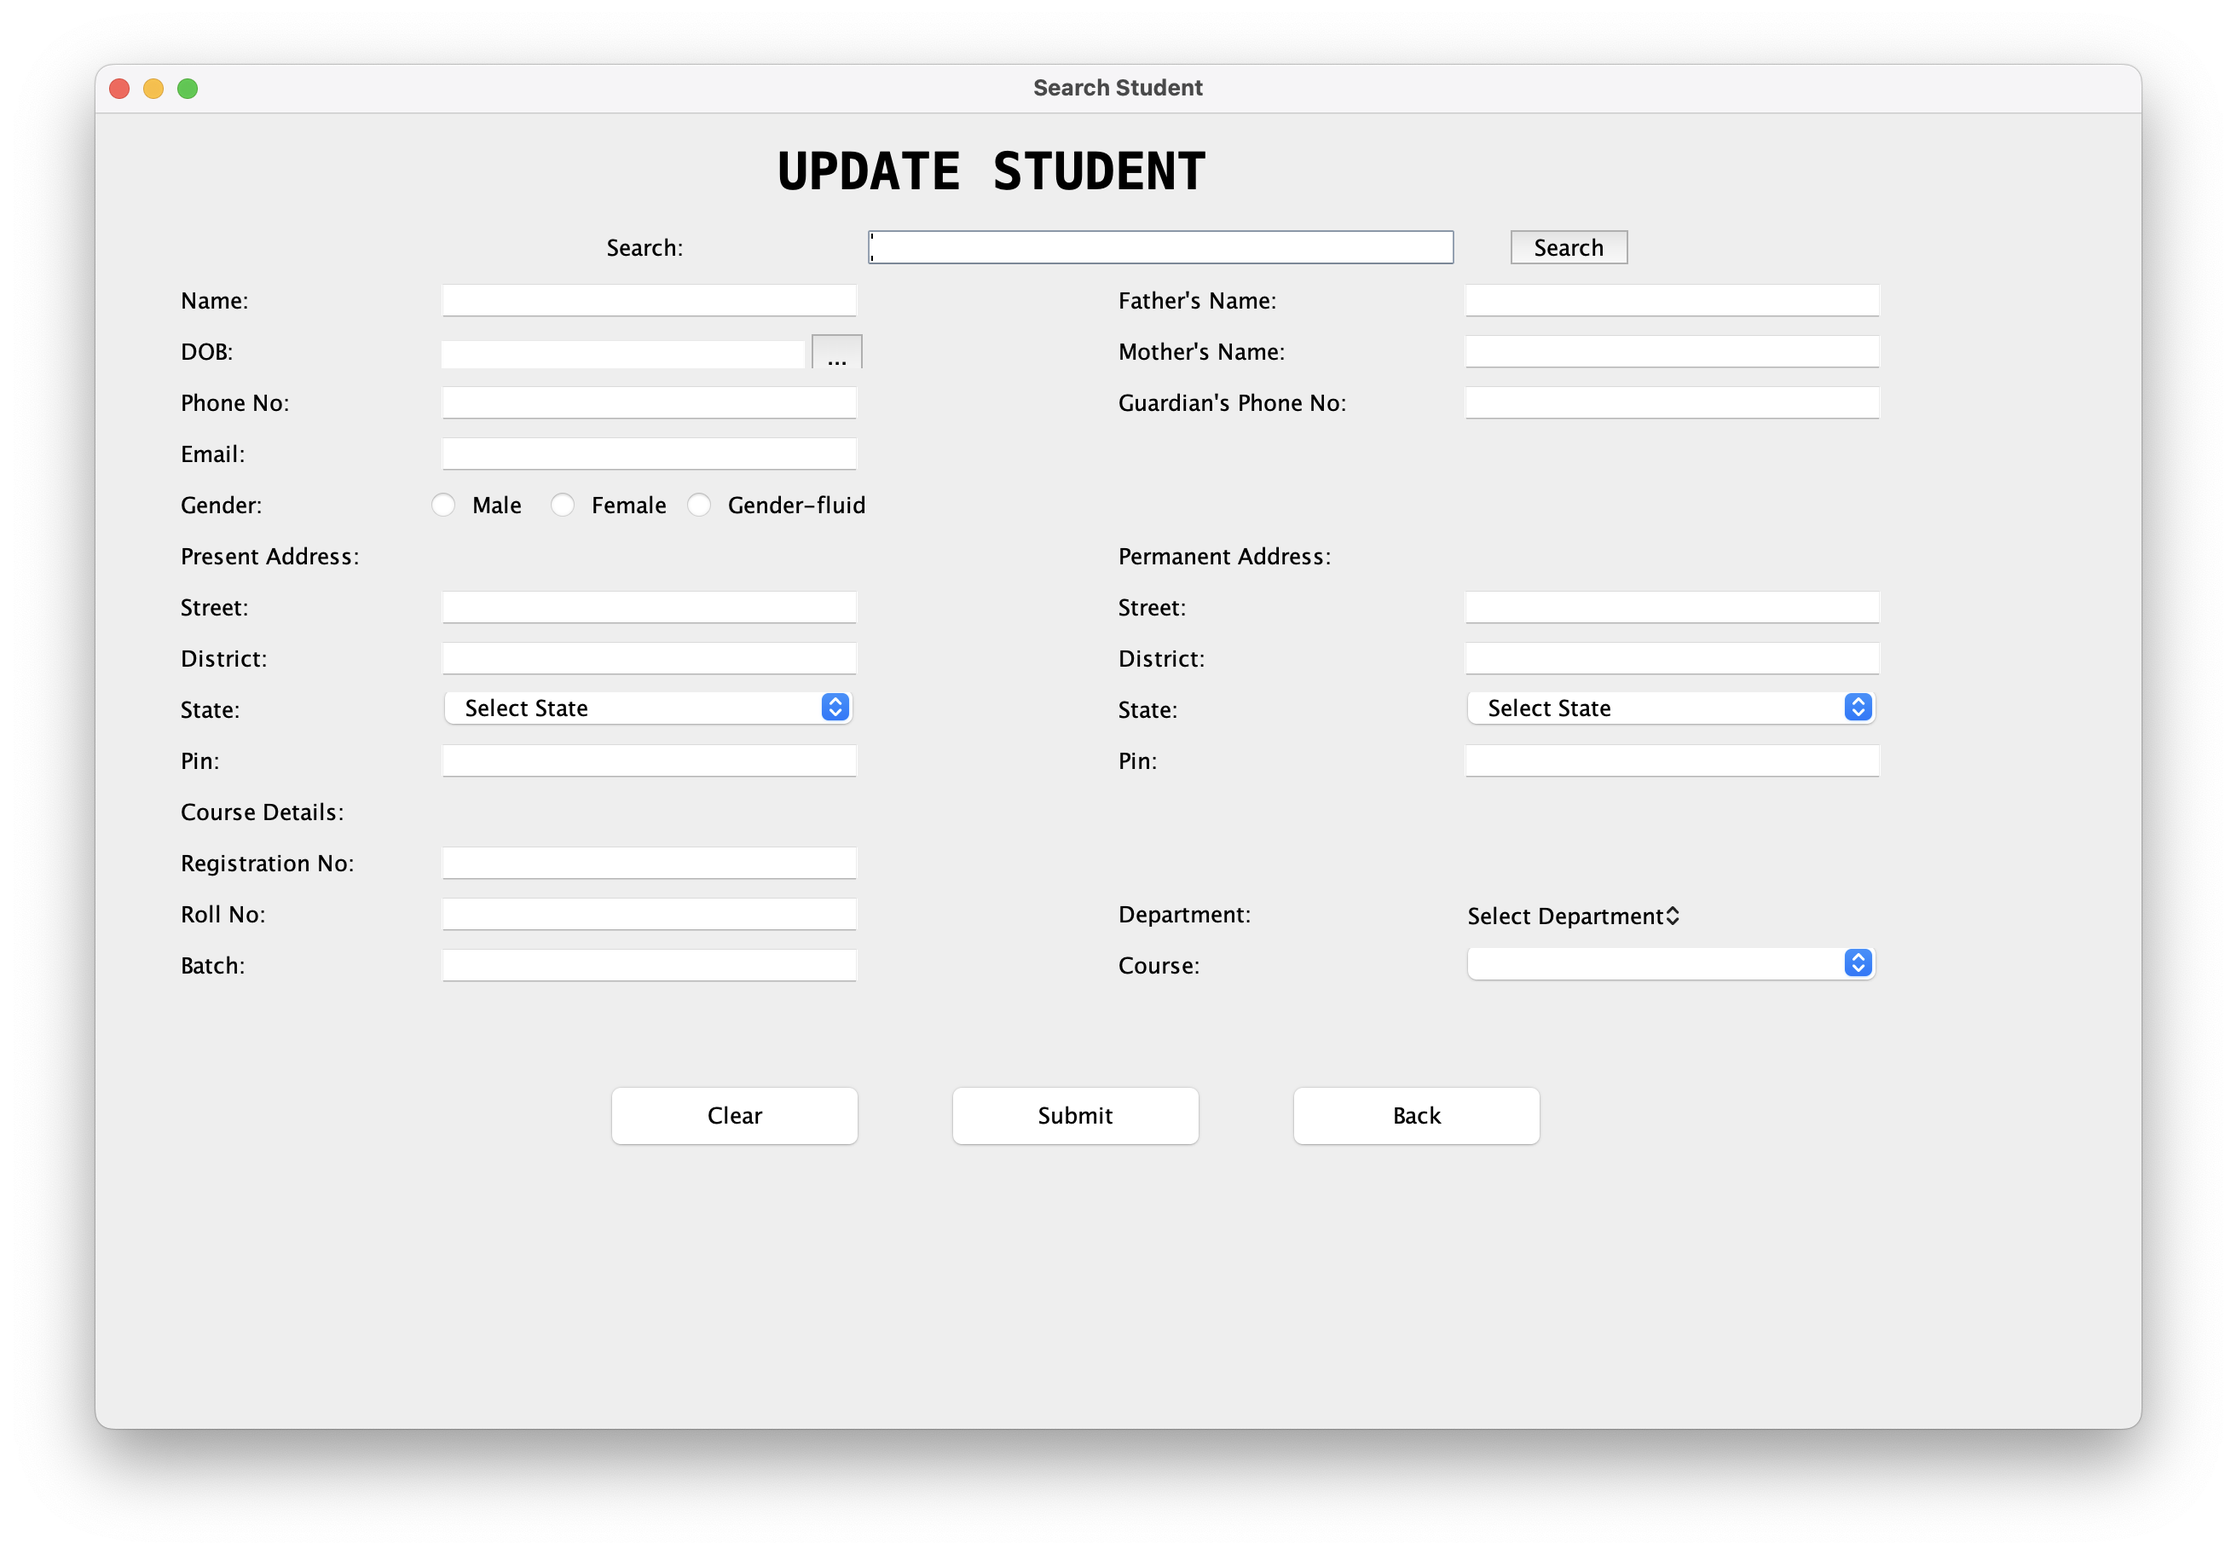
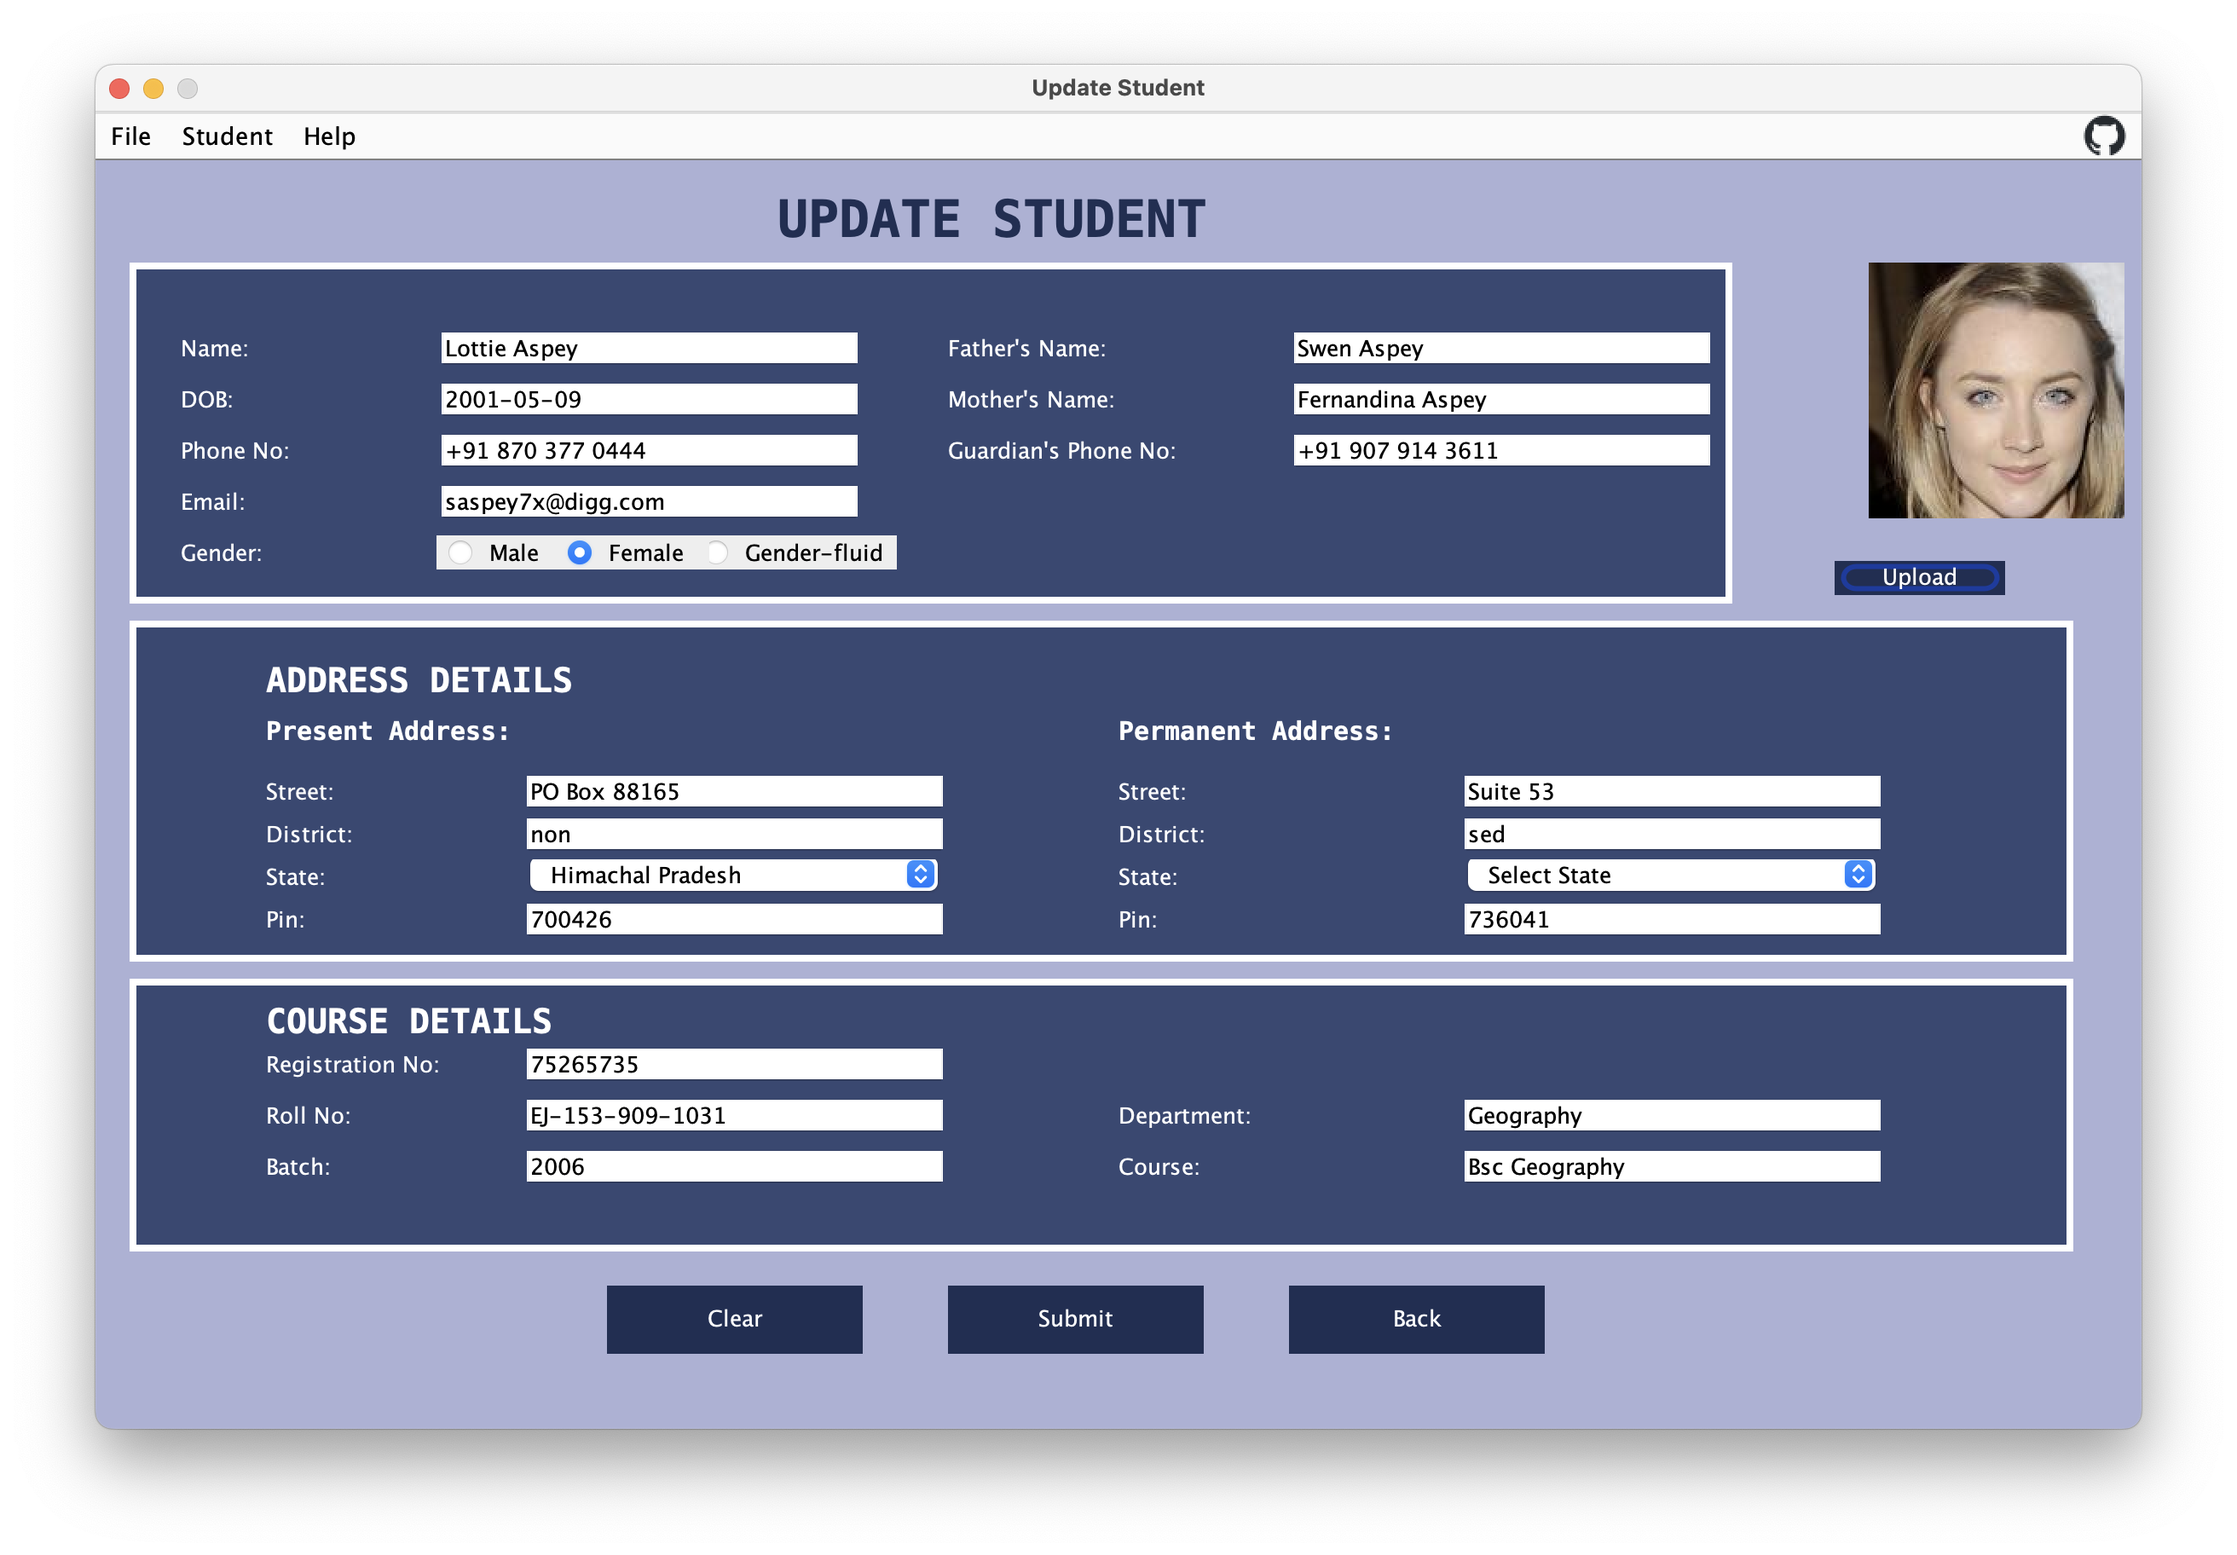
updated ss

diff --git a/src/com/tetradlazydragons/GetStarted.java b/src/com/tetradlazydragons/GetStarted.java
@@ -43,13 +43,13 @@ public class GetStarted extends JFrame {
         topic1Button.setOpaque(true);
         topic1Button.addActionListener(e -> {
             String howToContent = "The app section of UniManager is a feature that allows authorized users to edit, view, and delete student details within the system. Additionally, it provides an option to connect to a database for efficient data management."
-                    + " UniManager empowers administrators and authorized users to effectively manage student details, providing them with the necessary tools for data editing, viewing, and deletion while ensuring a secure and streamlined experience through the integration with a database.\n\n"
+                    + "\n UniManager empowers administrators and authorized users to effectively manage student details, providing them with the necessary tools for data editing, viewing, and deletion while ensuring a secure and streamlined experience through the integration with a database.\n\n"
                     + "\n Here's an overview of the functionalities in the app section:";
             howToTextArea.setText(howToContent);
         });
 
         JButton topic2Button = new JButton("Database");
-        topic2gButton.setForeground(Color.WHITE);
+        topic2Button.setForeground(Color.WHITE);
         topic2Button.setBackground(Color.decode(bgcolor2));
         topic2Button.setBorderPainted(false);
         topic2Button.setOpaque(true);
@@ -57,7 +57,7 @@ public class GetStarted extends JFrame {
             String howToContent = "UniManager offers the capability to connect to a database, which serves as a centralized storage for student data. By connecting to a database, the application can efficiently manage large amounts of information, provide data security, and enable reliable data retrieval and storage.\n"
                     +
 
-                    " Connecting to a database allows for seamless integration with other systems and provides a robust foundation for data management within UniManager. It facilitates data consistency, scalability, and ease of use.\n\n"
+                    "\n Connecting to a database allows for seamless integration with other systems and provides a robust foundation for data management within UniManager. It facilitates data consistency, scalability, and ease of use.\n\n"
                     +
                     " Step1 - Click on the File option on the menu\n" +
                     " Step2 - Select the Connect db button\n" +
@@ -72,8 +72,8 @@ public class GetStarted extends JFrame {
         topic3Button.setOpaque(true);
         topic3Button.addActionListener(e -> {
             String howToContent = "How to add a student\n" +
-                    "Step1-Connect the database\n" +
-                    "Step2-Click on search or Add student from Home\n" +
+                    "Step1 - Connect the database\n" +
+                    "Step2 - Click on search or Add student from Home\n" +
                     "Step3 - Fill in the form and click submit";
             howToTextArea.setText(howToContent);
         });
@@ -126,7 +126,7 @@ public class GetStarted extends JFrame {
         topic7Button.setBorderPainted(false);
         topic7Button.setOpaque(true);
         topic7Button.addActionListener(e -> {
-            String howToContent = "How to use Topic :\n\nDev 1: ...\nDev 2: ...\nDev 3: ...\nDev 4: ...";
+            String howToContent = "How to use Topic :\n\nDev 1: Debasish Dutta\nDev 2: Neeharika Sonowal\nDev 3: Rhituraj Deori\nDev 4: Jyotishman Bhagawati";
             howToTextArea.setText(howToContent);
         });
 

diff --git a/src/com/tetradlazydragons/UpdateForm.java b/src/com/tetradlazydragons/UpdateForm.java
@@ -37,7 +37,7 @@ public class UpdateForm implements ActionListener {
         static JLabel piclabel, piclabel2;
         static JTextField sname, sdob, sphone, semail, fname, mname, gphone, spresst, spresdist, sprespin, spermst,
                         spermdist, date,
-                        spermpin, reg, roll,
+                        spermpin, reg, roll, deptT,
                         batch, course;
         static JRadioButton maleradio, femaleradio, genderfradio;
         static JComboBox<String> presstatecombo, permstatecombo;
@@ -342,9 +342,11 @@ public class UpdateForm implements ActionListener {
                 deptComboBox.setBounds(800, 550, 250, 20);
                 deptComboBox.setOpaque(true);
                 deptComboBox.addActionListener(this);
-
+                deptT = new JTextField();
+                deptT.setBounds(800, 550, 250, 20);
+                f.add(deptT);
                 deptComboBox.putClientProperty("JComboBox.isTableCellEditor", Boolean.TRUE);
-                f.add(deptComboBox);
+                // f.add(deptComboBox);
 
                 courselabel = new JLabel("Course:");
                 courselabel.setForeground(Color.WHITE);
@@ -477,6 +479,7 @@ public class UpdateForm implements ActionListener {
                 clearbtn.setBackground(Color.decode(bgcolor));
                 clearbtn.setBorderPainted(false);
                 clearbtn.setOpaque(true);
+                clearbtn.addActionListener(this);
                 f.add(clearbtn);
 
                 backbtn = new JButton("Back");
@@ -499,6 +502,7 @@ public class UpdateForm implements ActionListener {
 
                 f.setSize(1200, 800);
                 f.setLayout(null);
+                f.setResizable(false);
                 f.setVisible(true);
 
         }
@@ -574,13 +578,14 @@ public class UpdateForm implements ActionListener {
                         // maleradio.setEnabled(false);
                         // femaleradio.setEnabled(false);
                         // genderfradio.setEnabled(false);
+                        course.setText("");
+                        deptT.setText("");
                         bg.clearSelection();
                         presstatecombo.setSelectedIndex(0);
                         permstatecombo.setSelectedIndex(0);
                         deptComboBox.setSelectedIndex(0);
                         courseComboBox.setModel(new DefaultComboBoxModel());
                         courseComboBox.setSelectedIndex(0);
-                        course.setText("");
                 }
 
                 if (e.getActionCommand().equals("Submit")) {

diff --git a/src/com/tetradlazydragons/RegForm.java b/src/com/tetradlazydragons/RegForm.java
@@ -303,7 +303,7 @@ public class RegForm implements ActionListener {
                 rolllabel.setForeground(Color.WHITE);
                 rolllabel.setBounds(100, 560, 150, 20);
                 roll = new JTextField();
-                roll.setBounds(250, 550, 260, 20);
+                roll.setBounds(250, 560, 260, 20);
                 f.add(rolllabel);
                 f.add(roll);
 
@@ -533,8 +533,8 @@ public class RegForm implements ActionListener {
                         } else {
                                 courseComboBox.setModel(new DefaultComboBoxModel((String[]) o));
                         }
-                        System.out.println("course ->" + courseComboBox.getSelectedIndex() + " "
-                                        + courseComboBox.getSelectedObjects().toString() + " ");
+                        // System.out.println("course ->" + courseComboBox.getSelectedIndex() + " "
+                        // + courseComboBox.getSelectedObjects().toString() + " ");
                 }
 
                 if (e.getSource() == uploadPic) {
@@ -557,6 +557,7 @@ public class RegForm implements ActionListener {
                 }
 
                 if (e.getSource() == clearbtn) {
+                        piclabel.setIcon(null);
                         sname.setText("");
                         sphone.setText("");
                         semail.setText("");

diff --git a/src/com/tetradlazydragons/License.java b/src/com/tetradlazydragons/License.java
@@ -7,7 +7,7 @@ public class License extends JFrame {
     public License() {
         // setDefaultCloseOperation(JFrame.EXIT_ON_CLOSE);
         setTitle("MIT License");
-
+        String bgcolor = "#374873", bgcolor2 = "#1F2E54", bgcolor3 = "#ACB1D6";
         Dimension screenSize = Toolkit.getDefaultToolkit().getScreenSize();
         int Width = 800;
         int Height = 600;
@@ -39,12 +39,14 @@ public class License extends JFrame {
                 "SOFTWARE.");
 
         textArea.setEditable(false);
-        textArea.setFont(new Font(Font.MONOSPACED, Font.PLAIN, 20));
+        textArea.setFont(new Font("Courier", Font.PLAIN, 20));
         textArea.setAlignmentX(Component.CENTER_ALIGNMENT);
         textArea.setAlignmentY(Component.CENTER_ALIGNMENT);
 
         JScrollPane scrollPane = new JScrollPane(textArea);
         scrollPane.setBounds(textAreaX, textAreaY, textAreaWidth, textAreaHeight);
+
+        textArea.setForeground(Color.decode(bgcolor));
 
         getContentPane().add(scrollPane);
         setLocationRelativeTo(null);

diff --git a/src/com/tetradlazydragons/Home.java b/src/com/tetradlazydragons/Home.java
@@ -34,11 +34,7 @@ public class Home {
     Home() {
         JFrame f = new JFrame("Uni Manager");
         f.setDefaultCloseOperation(JFrame.EXIT_ON_CLOSE);
-        try {
-            f.setContentPane(new JLabel(new ImageIcon(ImageIO.read(new File("assets/icons/unimanagerhome.jpg")))));
-        } catch (IOException e) {
-            e.printStackTrace();
-        }
+        f.setContentPane(new JLabel(new ImageIcon("assets/icons/unimanagerhome.jpg")));
         MenuBar menu = new MenuBar();
         f.setJMenuBar(menu.createMenuBar());
 
@@ -128,6 +124,8 @@ public class Home {
         f.setSize(1200, 800);
         f.setLayout(null);
         f.setVisible(true);
+        ImageIcon myAppImage = new ImageIcon("assets/icons/dragon.png");
+        // f.setIconImage(myAppImage.getImage());
         f.setResizable(false);
     }
 

diff --git a/src/com/tetradlazydragons/DBHandler.java b/src/com/tetradlazydragons/DBHandler.java
@@ -43,7 +43,7 @@ public class DBHandler {
     static {
         login = "root";
         databaseUrl = "jdbc:mysql://localhost:3306/student_management_system?useSSL=false";
-        password = "8145";
+        password = "111222344";
         studentsTable = "student_data";
     }
 
@@ -169,10 +169,7 @@ public class DBHandler {
             } else if (RegForm.femaleradio.isSelected()) {
                 sgender = "Female";
             } else if (RegForm.genderfradio.isSelected()) {
-                             
-                sgender = "Gender-Fluid";
-            } else {
-                sgender = "";
+                sgender = "Genderf";
             }
             String presAdd = RegForm.spresst.getText() + ", " + RegForm.spresdist.getText()
                     + ", " + RegForm.presstatecombo.getItemAt(

diff --git a/src/com/tetradlazydragons/ViewCard.java b/src/com/tetradlazydragons/ViewCard.java
@@ -369,7 +369,7 @@ public class ViewCard implements ActionListener {
             UpdateForm.reg.setText(studentData[8].toString());
             UpdateForm.batch.setText(studentData[14].toString());
 
-            UpdateForm.deptComboBox.setSelectedItem(studentData[15].toString());
+            UpdateForm.deptT.setText(studentData[15].toString());
             UpdateForm.course.setText(studentData[13].toString() + " " + studentData[15].toString());
             UpdateForm.date.setText(studentData[3].toString());
             UpdateForm.roll.setText(studentData[1].toString());

diff --git a/src/com/tetradlazydragons/SearchForm.java b/src/com/tetradlazydragons/SearchForm.java
@@ -65,6 +65,7 @@ public class SearchForm implements ActionListener {
 
         tableModel = new DefaultTableModel();
         viewTable = new JTable(tableModel);
+
         tableModel.addColumn("Roll No");
         tableModel.addColumn("Name");
         tableModel.addColumn("Date Of Birth");

diff --git a/README.md b/README.md
@@ -2,13 +2,9 @@
 
 This is a simple student management system done using Java and Swing package.
 
-## Screenshots
+## Features
 
-![home](assets/ss/homepage.png)
-![add student form](assets/ss/new_std.png)
-![connect db form](assets/ss/connect_db.png)
-![search form](assets/ss/search_std.png)
-![update form](assets/ss/update_std.png)
+## Technologies and Dependencies
 
 ## Build
 
@@ -18,3 +14,34 @@ To build the app from source, use the following commands:
     ant
     java  -jar dist/UniManager.jar  
 ```
+
+## Installation
+
+## Screenshots
+
+![home](assets/ss/homepage.png)
+![add student form](assets/ss/new_std.png)
+![connect db form](assets/ss/connect_db.png)
+![search form](assets/ss/find_std.png)
+![view details](assets/ss/std_details.png)
+![update form](assets/ss/update_std.png)
+![about](assets/ss/about.png)
+
+## Contributing
+
+Contributions are welcome and encouraged! Here are some guidelines to get you started:
+
+1. Fork the repository and clone it to your local machine.
+2. Create a new branch for your feature or bug fix.
+3. Make your changes and test thoroughly.
+4. Commit your changes with descriptive commit messages.
+5. Push your branch to your forked repository.
+6. Open a pull request, providing a clear title and description of your changes.
+7. Ensure that your code follows the project's coding conventions and style guidelines.
+8. Your pull request will be reviewed by the project maintainers. Feedback or suggestions for improvements may be provided.
+9. Once approved, your changes will be merged into the main repository.
+10. Thank you for your contribution!
+
+## License
+
+This project is licensed under the MIT License. See the [LICENSE](LICENSE) file for more information.
